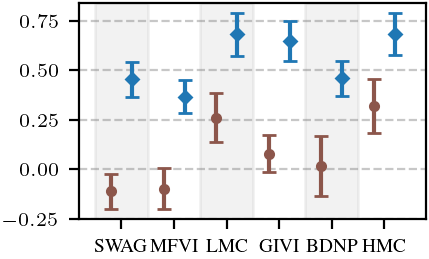
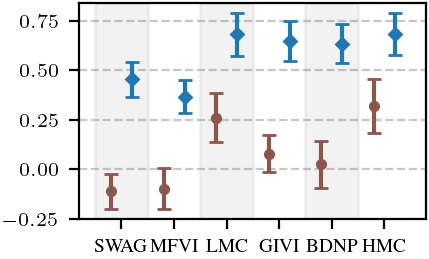
finished synthetic prior transfer figs

diff --git a/experiments/prior_transfer/transfer_prior.py b/experiments/prior_transfer/transfer_prior.py
@@ -43,7 +43,7 @@ def main(prior=None,
          function_type='sawtooth',
          use_gpu=False,
          use_shared_test_sets=False,
-         fine_tune_bdnp=True,
+         fine_tune_bdnp=False,
          ):
     
     args_dict = locals()
